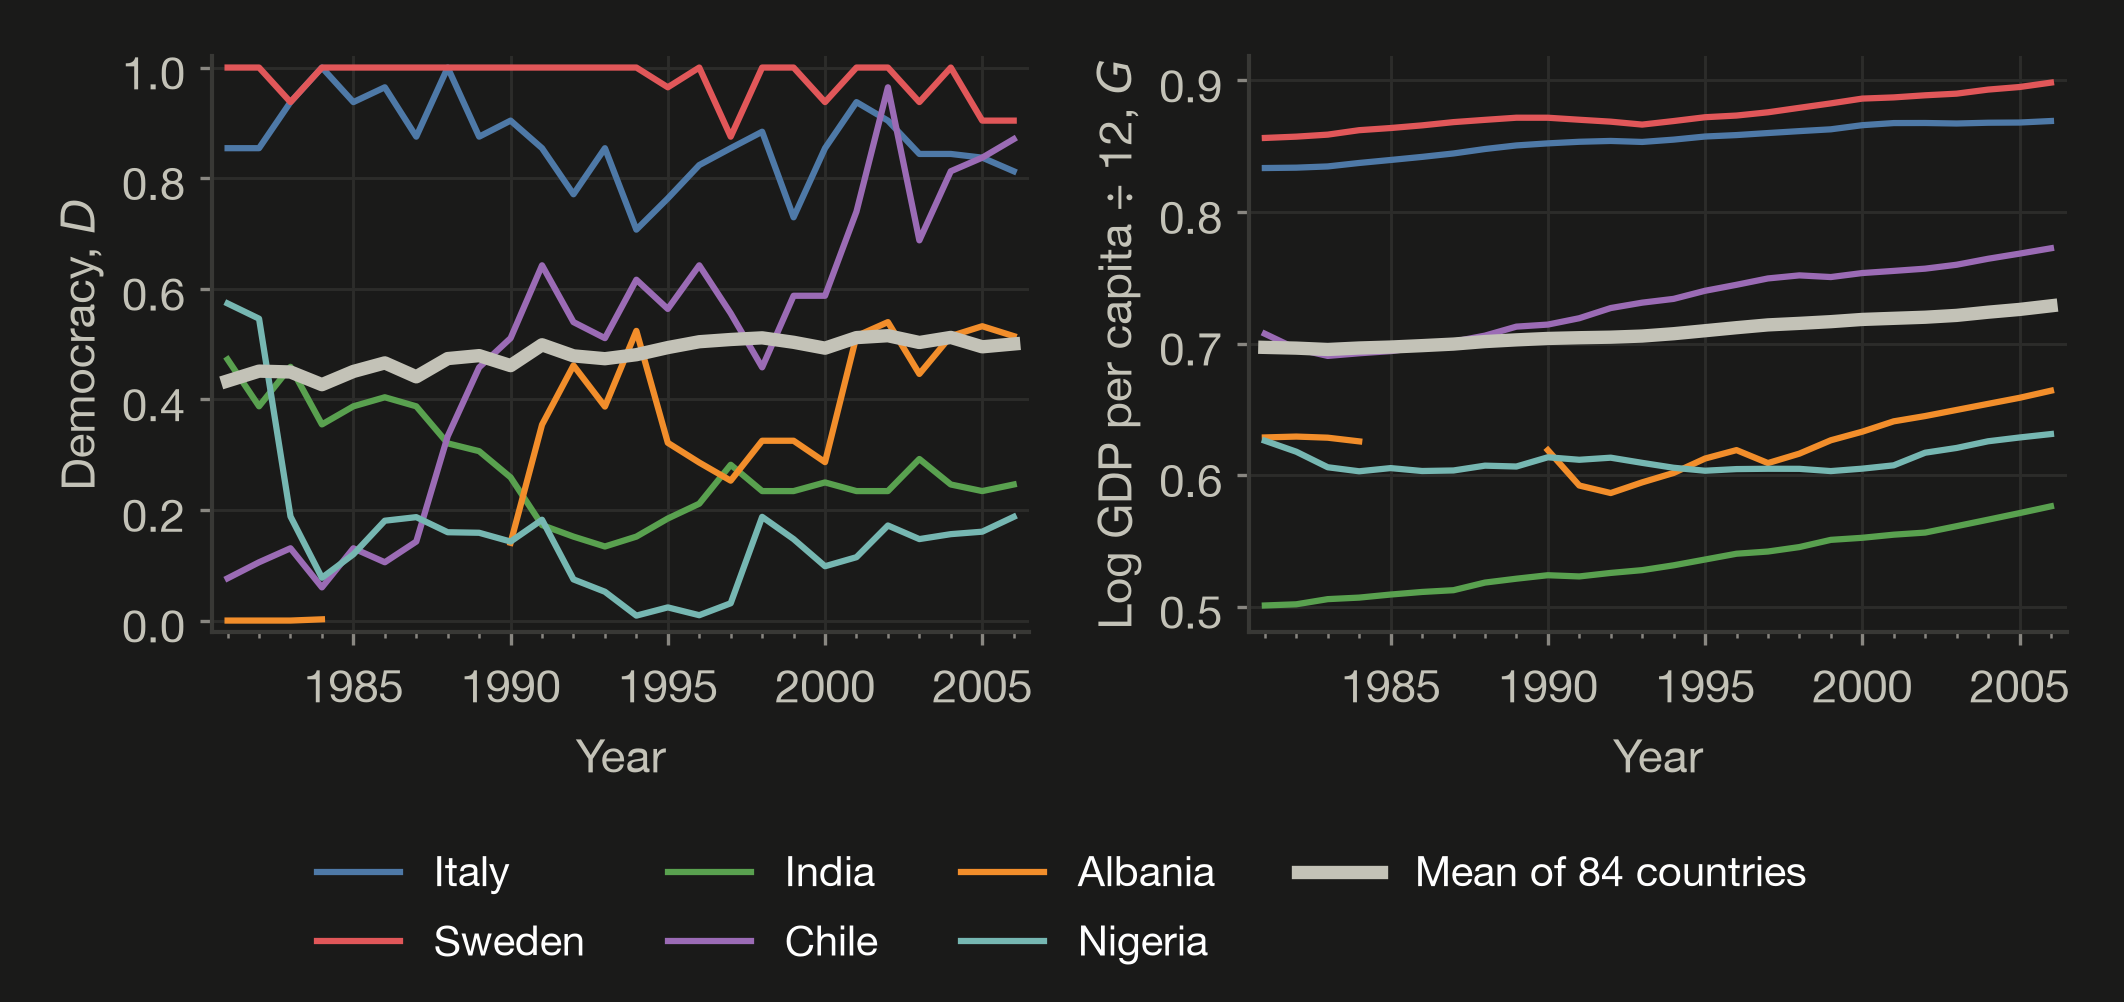
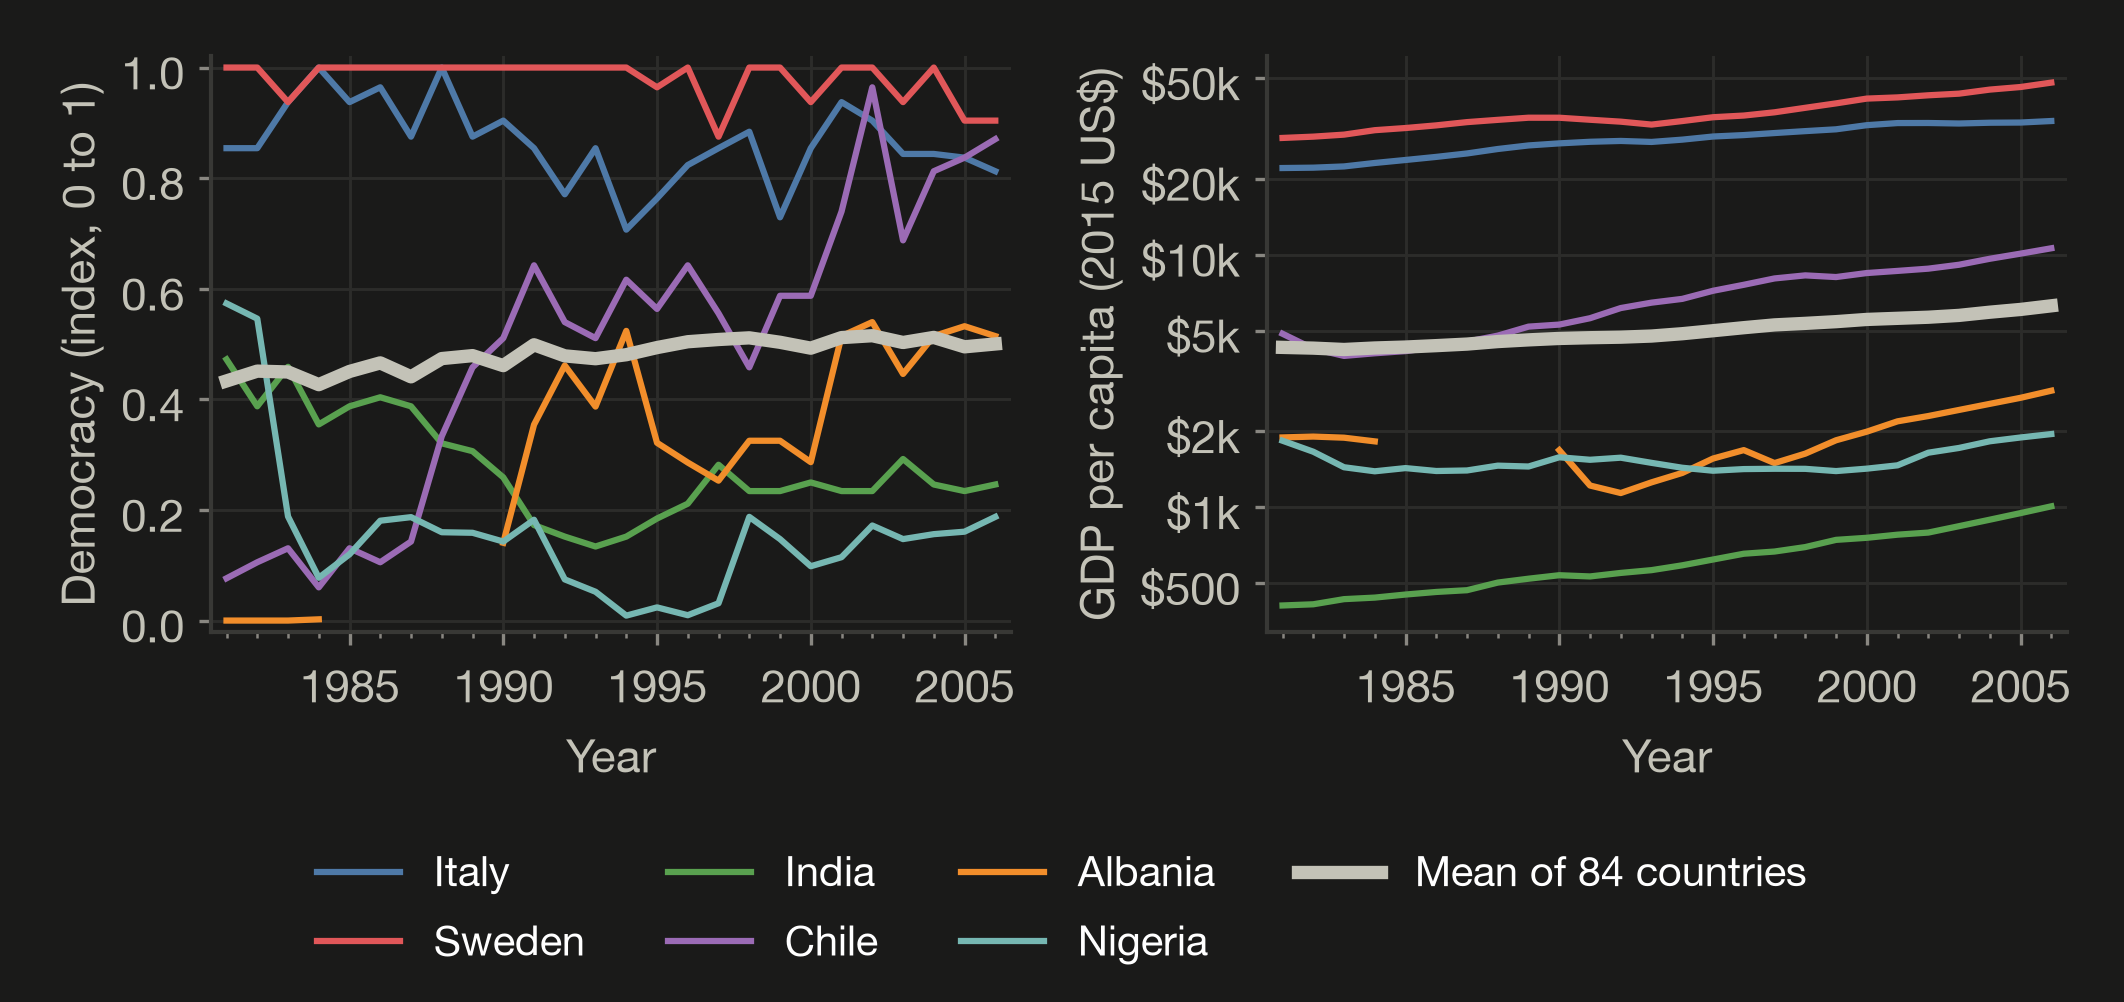
Step 3: GDP shown in constant 2015 dollars on a log axis; captions and text in units

diff --git a/Code/04_fig_trajectories_plane.py b/Code/04_fig_trajectories_plane.py
@@ -1,10 +1,11 @@
-"""Figure 2: trajectories in the (G, D) plane.
+"""Figure 2: trajectories in the GDP-democracy plane.
 
-All countries with both variables in the last year as faint points; the six
-representative countries' paths over the whole period as lines (gaps left where a
-year is missing), each start marked with a filled circle; the path of the mean over
-the balanced countries as a thick line. GDP across, democracy up: the same axes as
-the phase portraits.
+GDP per capita (constant 2015 US$, log axis) across, democracy up: the same axes
+as the phase portraits. All countries with both variables in the last year as faint
+points; the six representative countries' paths over the whole period as lines
+(gaps left where a year is missing), each start marked with a filled circle; the
+path of the mean over the balanced countries as a thick line. The GDP mean is the
+mean of G mapped back to dollars (the geometric mean of GDP per capita).
 
 Reads Code/outputs/panel.csv. Writes outputs/figures/fig2_trajectories_plane.png
 and outputs/figures/dark/fig2_trajectories_plane.png.
@@ -12,34 +13,37 @@ and outputs/figures/dark/fig2_trajectories_plane.png.
 import matplotlib.pyplot as plt
 import numpy as np
 
-from sds_common import (CM, REP, REP_COLOUR, YEARS, load_panel, mean_colour,
-                        save, style)
+from sds_common import (CM, D_LABEL, G_SCALE, GDP_LABEL, REP, REP_COLOUR, YEARS,
+                        dollar_axis, load_panel, mean_colour, save, style)
 
 p = load_panel()
+p["gdp_usd"] = np.exp(G_SCALE * p["G"])
 years = np.arange(YEARS[0], YEARS[1] + 1)
 mean = p[p.balanced].groupby("year")[["D", "G"]].mean().reindex(years)
+mean["gdp_usd"] = np.exp(G_SCALE * mean["G"])
 n_bal = p.loc[p.balanced, "iso3"].nunique()
 last = p[p.year == YEARS[1]]
 
 for theme_name in ("light", "dark"):
     t = style(theme_name)
     fig, ax = plt.subplots(figsize=(17 * CM, 10.5 * CM))
-    ax.scatter(last.G, last.D, s=10, color=t.muted, alpha=0.45, lw=0,
+    ax.scatter(last.gdp_usd, last.D, s=10, color=t.muted, alpha=0.45, lw=0,
                label=f"All countries, {YEARS[1]}", zorder=1)
     for iso, name in REP.items():
-        s = p[p.iso3 == iso].set_index("year")[["G", "D"]].reindex(years)  # NaN -> gap
+        s = p[p.iso3 == iso].set_index("year")[["gdp_usd", "D"]].reindex(years)  # NaN -> gap
         c = REP_COLOUR[iso]
-        ax.plot(s.G.values, s.D.values, color=c, lw=1.5, label=name, zorder=3)
+        ax.plot(s.gdp_usd.values, s.D.values, color=c, lw=1.5, label=name, zorder=3)
         first = s.dropna().iloc[0]
-        ax.scatter(first.G, first.D, s=28, color=c, zorder=4, edgecolors=t.surface,
-                   linewidths=0.6)
-    ax.plot(mean.G.values, mean.D.values, color=mean_colour(t), lw=3.2,
+        ax.scatter(first.gdp_usd, first.D, s=28, color=c, zorder=4,
+                   edgecolors=t.surface, linewidths=0.6)
+    ax.plot(mean.gdp_usd.values, mean.D.values, color=mean_colour(t), lw=3.2,
             label=f"Mean of {n_bal} countries", zorder=5)
     m0 = mean.iloc[0]
-    ax.scatter(m0.G, m0.D, s=40, color=mean_colour(t), zorder=6,
+    ax.scatter(m0.gdp_usd, m0.D, s=40, color=mean_colour(t), zorder=6,
                edgecolors=t.surface, linewidths=0.6)
-    ax.set_xlabel("Log GDP per capita ÷ 12, $G$")
-    ax.set_ylabel("Democracy, $D$")
+    dollar_axis(ax, "x")
+    ax.set_xlabel(GDP_LABEL)
+    ax.set_ylabel(D_LABEL)
     ax.set_ylim(-0.03, 1.03)
     ax.legend(loc="upper left", bbox_to_anchor=(1.02, 1.0), frameon=False,
               handlelength=1.4, borderaxespad=0.0)

diff --git a/Code/03_fig_trajectories_time.py b/Code/03_fig_trajectories_time.py
@@ -1,8 +1,10 @@
 """Figure 1: trajectories over time.
 
-Two panels, democracy D and scaled log GDP G against year. The six representative
-countries are thin lines (gaps left where a year is missing); the mean over the
-balanced countries (both variables in every year) is a thick line.
+Two panels: democracy D, and GDP per capita in constant 2015 US$ on a log axis,
+against year. The six representative countries are thin lines (gaps left where a
+year is missing); the mean over the balanced countries (both variables in every
+year) is a thick line. The GDP mean is the mean of G mapped back to dollars, i.e.
+the geometric mean of GDP per capita, so it sits where the model's mean state is.
 
 Reads Code/outputs/panel.csv. Writes outputs/figures/fig1_trajectories_time.png
 and outputs/figures/dark/fig1_trajectories_time.png.
@@ -10,19 +12,20 @@ and outputs/figures/dark/fig1_trajectories_time.png.
 import matplotlib.pyplot as plt
 import numpy as np
 
-from sds_common import (CM, REP, REP_COLOUR, YEARS, load_panel, mean_colour,
-                        save, style)
+from sds_common import (CM, D_LABEL, G_SCALE, GDP_LABEL, REP, REP_COLOUR, YEARS,
+                        dollar_axis, load_panel, mean_colour, save, style)
 
 p = load_panel()
+p["gdp_usd"] = np.exp(G_SCALE * p["G"])  # equals gdppc; via G so the mean is consistent
 years = np.arange(YEARS[0], YEARS[1] + 1)
 mean = p[p.balanced].groupby("year")[["D", "G"]].mean().reindex(years)
+mean["gdp_usd"] = np.exp(G_SCALE * mean["G"])
 n_bal = p.loc[p.balanced, "iso3"].nunique()
 
 for theme_name in ("light", "dark"):
     t = style(theme_name)
     fig, axes = plt.subplots(1, 2, figsize=(18 * CM, 8.5 * CM))
-    for ax, var, label in [(axes[0], "D", "Democracy, $D$"),
-                           (axes[1], "G", "Log GDP per capita ÷ 12, $G$")]:
+    for ax, var, label in [(axes[0], "D", D_LABEL), (axes[1], "gdp_usd", GDP_LABEL)]:
         for iso, name in REP.items():
             s = p[p.iso3 == iso].set_index("year")[var].reindex(years)  # NaN -> gap
             ax.plot(years, s.values, color=REP_COLOUR[iso], lw=1.5, label=name)
@@ -34,6 +37,7 @@ for theme_name in ("light", "dark"):
         ax.xaxis.set_minor_locator(plt.MultipleLocator(1))
         ax.set_xticks([1985, 1990, 1995, 2000, 2005])
     axes[0].set_ylim(-0.02, 1.02)
+    dollar_axis(axes[1], "y")
     handles, labels = axes[0].get_legend_handles_labels()
     fig.legend(handles, labels, loc="lower center", ncol=4, frameon=False,
                bbox_to_anchor=(0.5, 0.0))

diff --git a/Code/sds_common.py b/Code/sds_common.py
@@ -63,5 +63,21 @@ def save(fig, name: str, theme_name: str) -> Path:
     return path
 
 
+GDP_LABEL = "GDP per capita (2015 US$)"
+D_LABEL = "Democracy (index, 0 to 1)"
+GDP_TICKS = [500, 1000, 2000, 5000, 10000, 20000, 50000, 100000]
+
+
+def dollar_axis(ax, which: str = "x") -> None:
+    """Log axis labelled in dollars. Position is linear in ln(GDP), i.e. in G."""
+    from matplotlib.ticker import FixedLocator, FuncFormatter, NullLocator
+    axis = ax.xaxis if which == "x" else ax.yaxis
+    (ax.set_xscale if which == "x" else ax.set_yscale)("log")
+    axis.set_major_locator(FixedLocator(GDP_TICKS))
+    axis.set_major_formatter(FuncFormatter(
+        lambda v, _: f"${v/1000:g}k" if v >= 1000 else f"${v:g}"))
+    axis.set_minor_locator(NullLocator())
+
+
 def load_panel() -> pd.DataFrame:
     return pd.read_csv(PANEL)

diff --git a/Report.md b/Report.md
@@ -10,7 +10,7 @@
 
 *Background and prior literature to be added later.*
 
-We look at how democracy and national income change together, using two country-level variables between 1981 and 2006. The first is GDP per capita, from the World Bank, in constant 2015 US dollars. We take its natural logarithm and divide by 12, so that it runs from about 0.4 to 1. The second is the citizen rights index of Welzel (2013). It combines Freedom House ratings of political rights and civil liberties with Cingranelli–Richards scores of how far rights are respected in practice, and runs from 0, no citizen rights, to 1. It's one way of measuring democracy, and it is built from expert codings, not measured directly.
+We look at how democracy and national income change together, using two country-level variables between 1981 and 2006. The first is GDP per capita, from the World Bank, in constant 2015 US dollars. It runs from about \$160 to \$140,000 per person. For the model we take its natural logarithm and divide by 12, so that it runs from about 0.4 to 1. Figures show it in dollars on a logarithmic scale. The second is the citizen rights index of Welzel (2013). It combines Freedom House ratings of political rights and civil liberties with Cingranelli–Richards scores of how far rights are respected in practice, and runs from 0, no citizen rights, to 1. It's one way of measuring democracy, and it is built from expert codings, not measured directly.
 
 Rather than relating the level of one variable to the level of the other, we model the yearly change in each as a function of the current levels of both. The two equations together describe a dynamical system. Following Ranganathan, Spaiser and Sumpter (2013), each change is written as a sum of terms from a fixed set of polynomials in the two variables. The data choose which terms enter: the best-fitting model is found for each number of terms, and models with different numbers of terms are compared by their Bayesian evidence. All countries are pooled, so we assume that every country follows the same dynamics from wherever it starts. The questions we look at are of association rather than cause. A term in the equation for the change in democracy says how that change varies with income, not that income drives it.
 
@@ -24,15 +24,15 @@ Rather than relating the level of one variable to the level of the other, we mod
 
 ## Results
 
-Figures 1 and 2 show the same data in two ways. Figure 1 plots each variable against time. Figure 2 plots the two variables against each other, so that a country's path through the figure is the sequence of states it passed through between 1981 and 2006. In Figure 2, a line moving up is a country becoming more democratic, and a line moving right is a country becoming richer. The thick line in both figures is the mean of the 84 countries that have both variables in every year from 1981 to 2006.
+Figures 1 and 2 show the same data in two ways. Figure 1 plots each variable against time. Figure 2 plots the two variables against each other, so that a country's path through the figure is the sequence of states it passed through between 1981 and 2006. In Figure 2, a line moving up is a country becoming more democratic, and a line moving right is a country becoming richer. GDP is on a logarithmic scale, so equal distances are equal proportional changes: moving from \$1,000 to \$2,000 is the same distance as moving from \$10,000 to \$20,000. The thick line in both figures is the mean of the 84 countries that have both variables in every year from 1981 to 2006. For GDP it is the mean of the logarithm, which is the geometric mean in dollars.
 
 ![Figure 1](Code/outputs/figures/fig1_trajectories_time.png)
 
-<small><b>Figure 1.</b> Democracy, <em>D</em> (left), and log GDP per capita divided by 12, <em>G</em> (right), from 1981 to 2006. Thin lines are six countries: Italy, Sweden, India, Chile, Albania and Nigeria. The thick line is the mean of the 84 countries with both variables in all 26 years. Albania has no observations for 1985–1989, shown as a gap.</small>
+<small><b>Figure 1.</b> Democracy, <em>D</em> (left), and GDP per capita in constant 2015 US dollars on a logarithmic scale (right), from 1981 to 2006. Thin lines are six countries: Italy, Sweden, India, Chile, Albania and Nigeria. The thick line is the mean of the 84 countries with both variables in all 26 years. Albania has no observations for 1985–1989, shown as a gap.</small>
 
 ![Figure 2](Code/outputs/figures/fig2_trajectories_plane.png)
 
-<small><b>Figure 2.</b> Democracy, <em>D</em>, against log GDP per capita divided by 12, <em>G</em>. Grey points are the 181 countries with both variables in 2006. Coloured lines are the paths of the six countries in Figure 1 from 1981 to 2006, with a filled circle at 1981. The thick line is the path of the mean of the 84 countries with both variables in all 26 years, with a filled circle at 1981.</small>
+<small><b>Figure 2.</b> Democracy, <em>D</em>, against GDP per capita in constant 2015 US dollars on a logarithmic scale. Grey points are the 181 countries with both variables in 2006. Coloured lines are the paths of the six countries in Figure 1 from 1981 to 2006, with a filled circle at 1981. The thick line is the path of the mean of the 84 countries with both variables in all 26 years, with a filled circle at 1981.</small>
 
 ## Discussion
 

diff --git a/Appendix.md b/Appendix.md
@@ -164,6 +164,7 @@ Built by `Code/02_build_panel.py` from the step 1 decisions. Counts from `Code/o
 
 - **Style.** David's graph style inside the workspace themes: sizes in cm, 11 pt text with 10 pt legends, 300 dpi, no top or right spines, minor ticks every year on time axes. The six-colour palette from that style gives one fixed colour per representative country, set in `Code/sds_common.py`. The mean is drawn in the theme's ink, not a series colour. Each figure has light and dark versions, with opaque backgrounds and fixed canvas sizes. They render at 2124 × 1002 and 2007 × 1239 pixels, checked after saving.
 - **Changes after the first render.** The GDP axis was relabelled from "GDP per capita" to "Log GDP per capita ÷ 12", so the axis says what $G$ is. Figure 2's legend was moved outside the axes, because inside it covered India's starting point and the mean's path.
+- **Units (contract rule added after the first render).** GDP is now plotted in constant 2015 US dollars on a logarithmic axis, with ticks from \$500 to \$100k. Democracy is labelled "index, 0 to 1". Positions are unchanged, because the axis is linear in $\ln(\text{GDP})$ and so in $G$. The plotted dollars are computed as $e^{12G}$, which matches the source's GDP per capita to within $4 \times 10^{-10}$. The GDP mean is $e^{12\bar G}$, the geometric mean of GDP per capita over the 84 countries. Two layout fixes followed: the first dollar labels overlapped in Figure 2, so ticks are written \$1k, \$10k and so on; and the long axis label was cut off in Figure 1, so it reads "GDP per capita (2015 US\$)", with "constant" stated in the captions. Superseded: the "Log GDP per capita ÷ 12" axis label above.
 - **Orientation.** GDP across and democracy up, as proposed and agreed, so the phase portraits can share these axes. The 2013 paper's phase portrait has democracy across and GDP up.
 
 ## Analysis Log
@@ -184,7 +185,8 @@ Built by `Code/02_build_panel.py` from the step 1 decisions. Counts from `Code/o
 | 10 | Step 2. A new contract rule says the report never mentions replication, because the finished report is to serve as a template. The opening sentence about replication was removed. The paper is now cited once, as the source of the method ("Following Ranganathan, Spaiser and Sumpter (2013)…"). The comparison with the paper's equations goes in `Analysis` in this appendix once results exist, not in the report's `Discussion`. Superseded: the plan in row 9's follow-up to put that comparison in `Discussion`. | `Report.md` `Introduction`; `instructions.md` |
 | 11 | Step 2 closed by the user on 2026-11-18 ("Looks good"). Agreed with it: the reproduction criteria in `Research Question` (same terms and same signs decide; coefficients compared via 95% intervals, for information only), and two additions to the paper's method (resampling countries, and the data phase portrait). The log-base assumption behind the converted coefficients stands as recorded in `Research Question`. | — |
 | 12 | Step 3 started. The user questioned the mean-over-time figure, which answers none of the sub-questions. A contract change replaced the first two standard figures (a one-year scatter and the mean over time) with trajectories of six representative countries plus the mean, over time and in the $(G, D)$ plane. Higher-dimensional analyses may have more figures. Counted from the data for this choice: 84 countries have both variables in all 26 years; of the paper's six, Albania has 21 years and the others all 26. | `instructions.md` `Report Format`; `Research Question` proposal |
-| 13 | Step 3. Built the analysis panel: 3,679 country-years, 3,423 changes. Drew Figures 1 (trajectories over time) and 2 (trajectories in the $(G, D)$ plane) and added them to `Results` with captions and a paragraph saying how to read them. They sit above the sub-question sub-headings, because they describe the data for all three sub-questions. | `Code/02_build_panel.py`, `Code/03_fig_trajectories_time.py`, `Code/04_fig_trajectories_plane.py`; `Report.md` `Results` |
+| 13 | Step 3. Built the analysis panel: 3,679 country-years, 3,423 changes. Drew Figures 1 (trajectories over time) and 2 (trajectories in the $(G, D)$ plane) and added them to `Results` with captions and a paragraph saying how to read them. They sit above the sub-question sub-headings, because they describe the data for all three sub-questions. |
+| 14 | Step 3. A contract rule says every variable is shown in interpretable units, so we see GDP in money. Figures 1 and 2 were redrawn with GDP in constant 2015 US dollars on a log axis. The captions and the `Results` paragraph were updated, and the `Introduction` now gives GDP's range in dollars (about \$160 to \$140,000 per person, from `panel.csv`: 164.7 to 140,615). | `instructions.md`; `Code/sds_common.py`; Figures 1–2; `Report.md` | `Code/02_build_panel.py`, `Code/03_fig_trajectories_time.py`, `Code/04_fig_trajectories_plane.py`; `Report.md` `Results` |
 
 ## Code Summary
 
